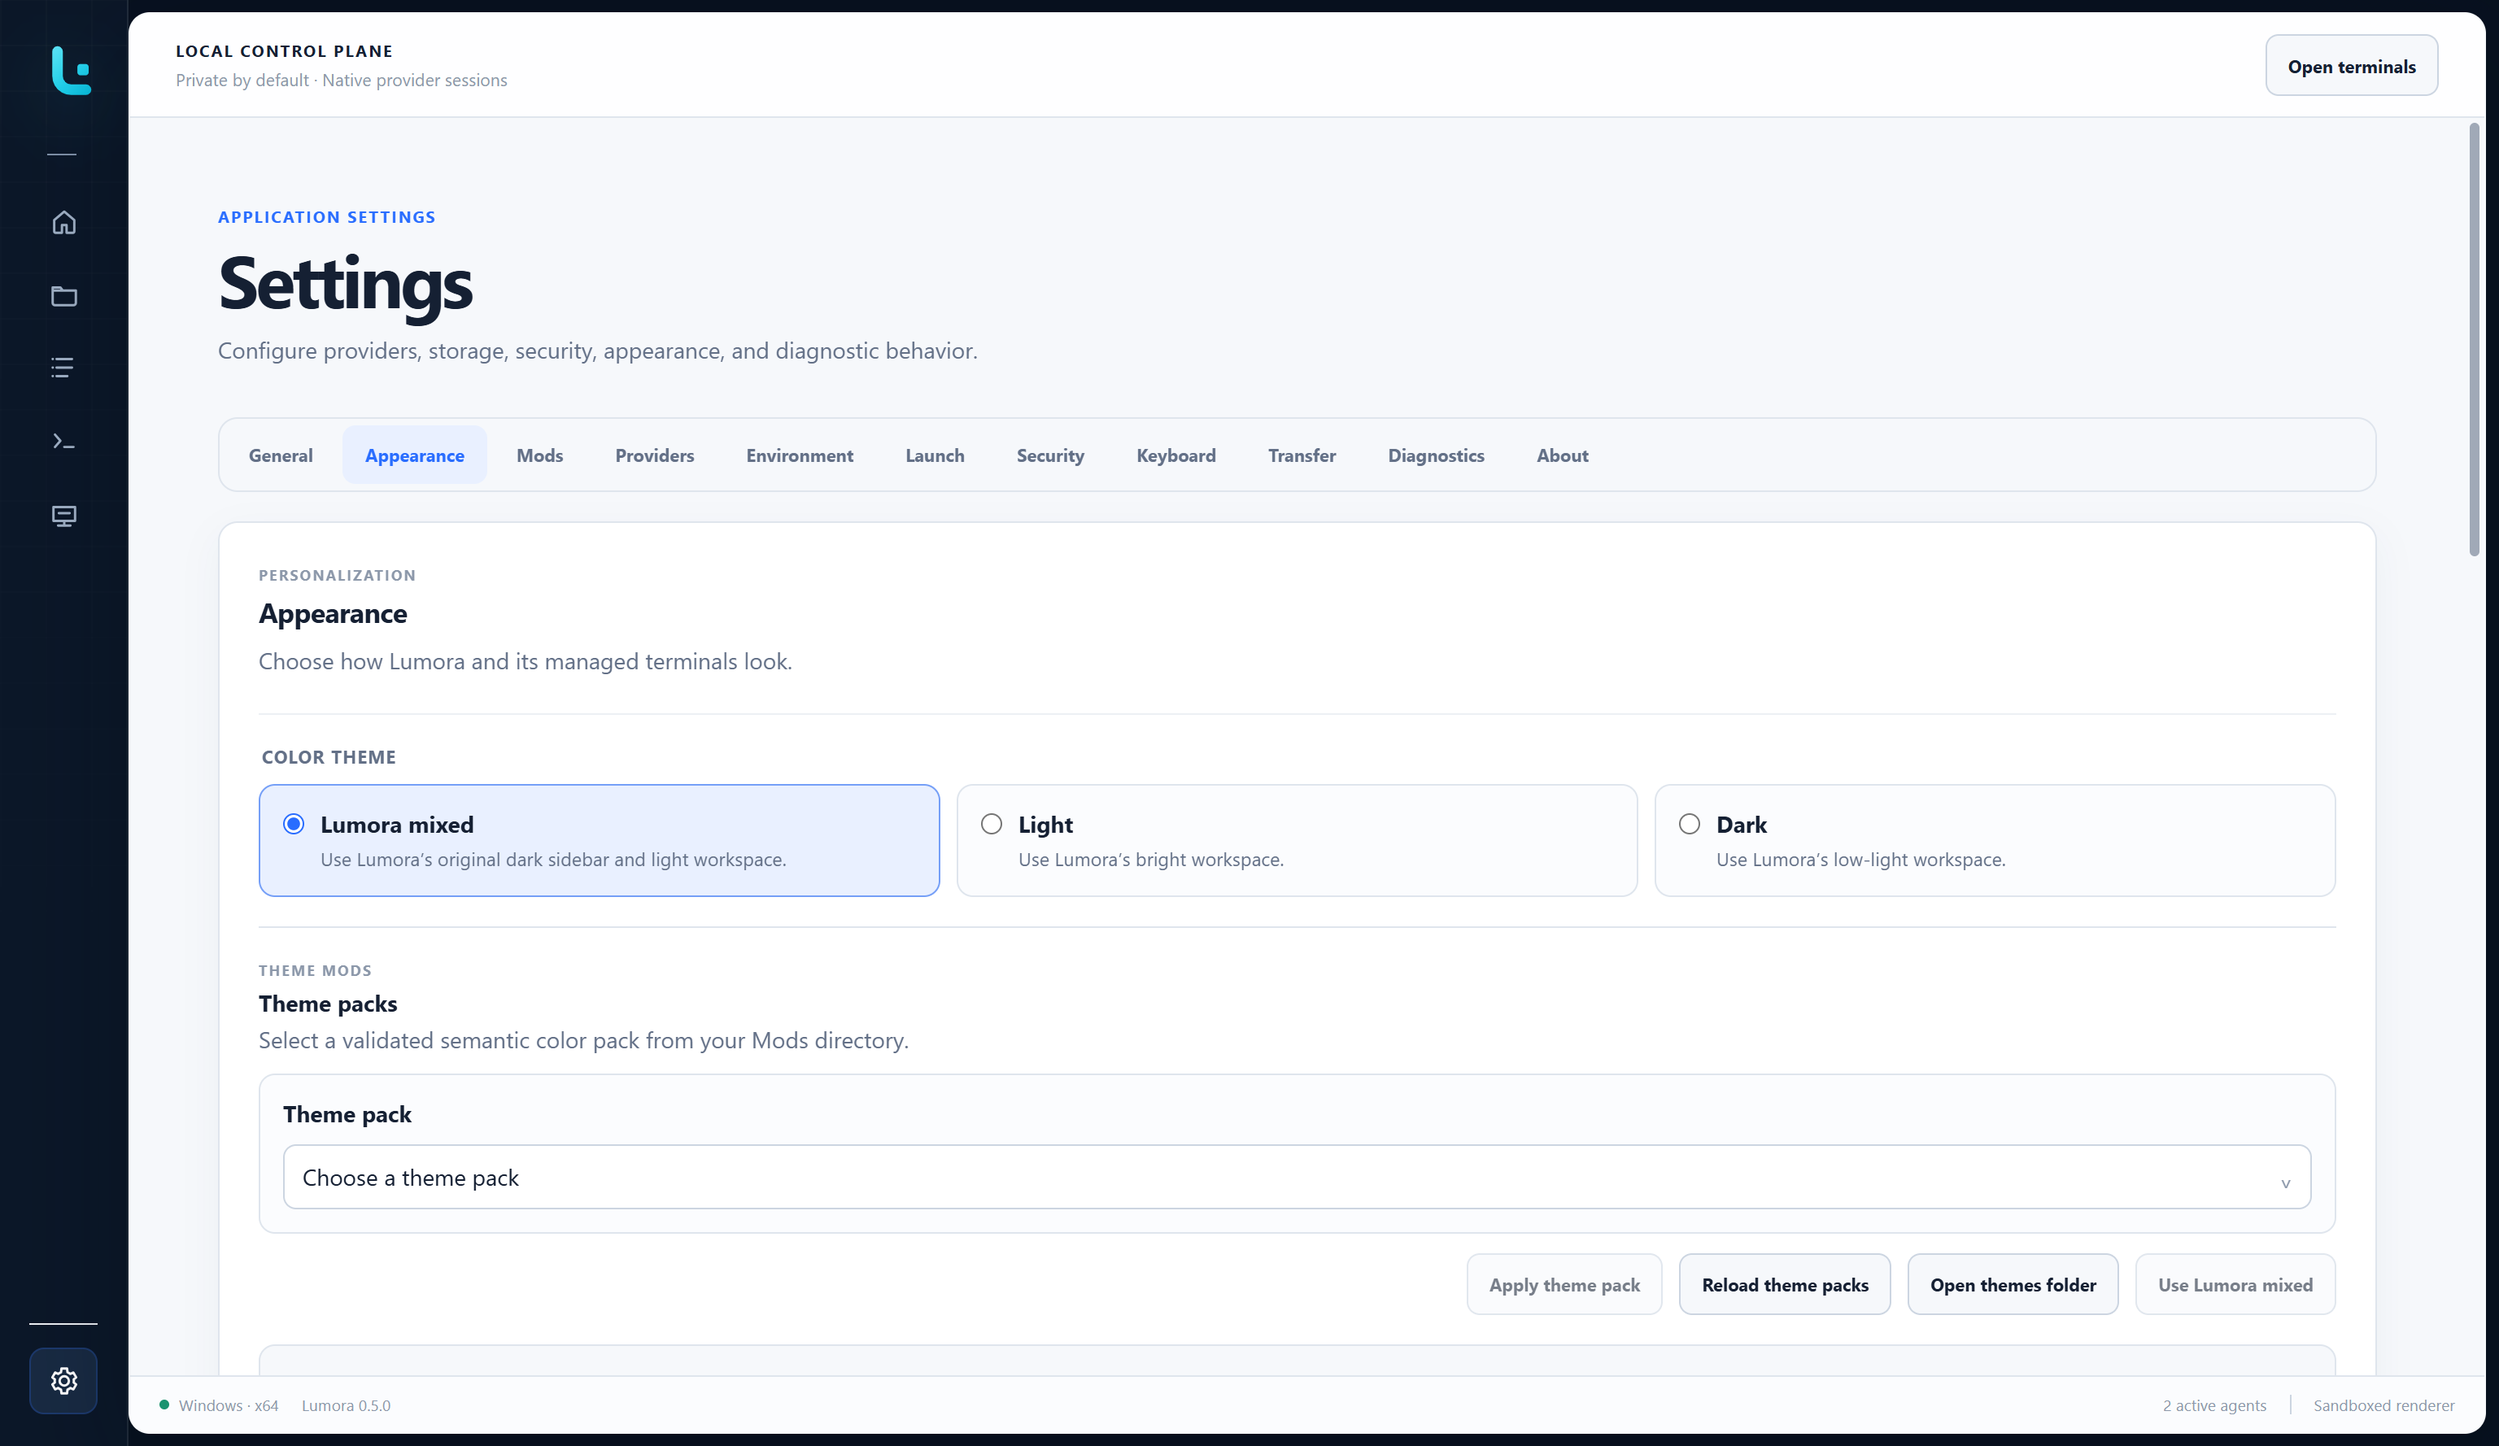
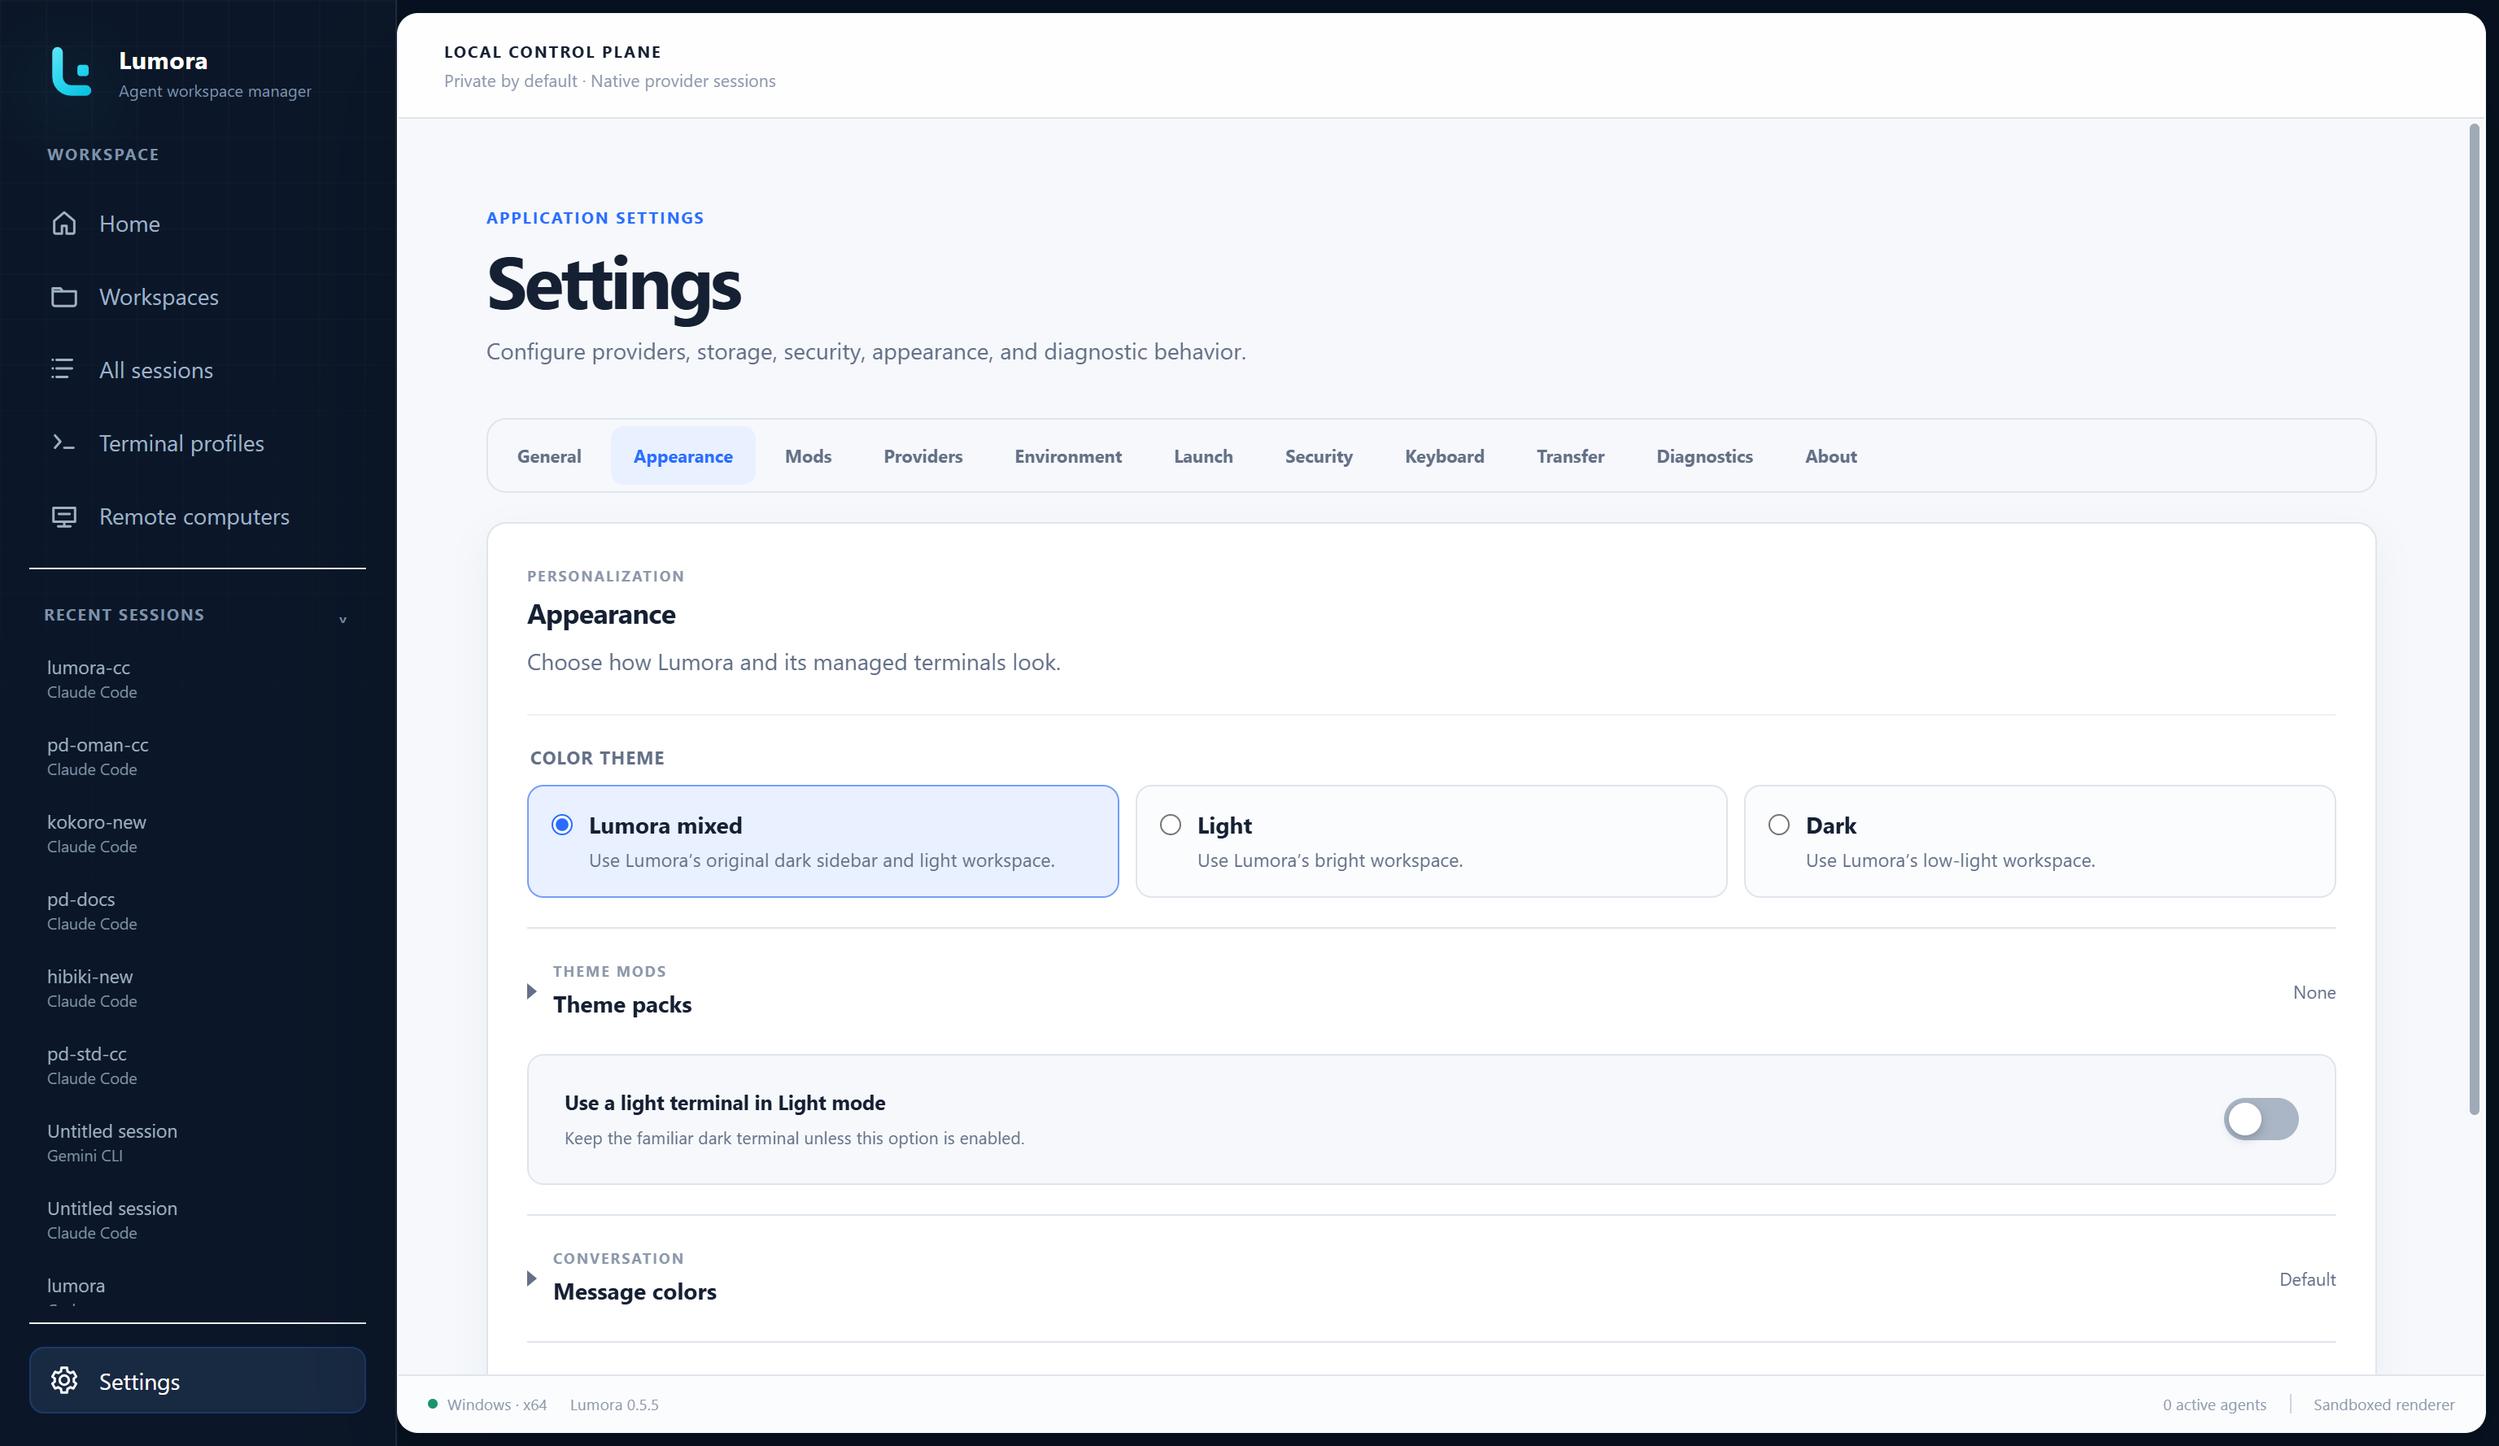
chore: release Lumora 0.5.5

diff --git a/CHANGELOG.md b/CHANGELOG.md
@@ -7,7 +7,28 @@ and Lumora uses [Semantic Versioning](https://semver.org/spec/v2.0.0.html).
 
 ## [Unreleased]
 
+## [0.5.5] - 2026-09-05
+
 ### Changed
+
+- Rebuild **Settings → Providers** around one card per provider. A card carries
+  the version, a switch to turn the provider on or off, an update button when
+  there is one, and a **Details** button. Details holds the detected command,
+  the installed path, the release state and the custom start command. The
+  separate list of enabled providers is gone, because the switch replaces it and
+  applies at once. Every provider Lumora supports keeps a card even when it is
+  turned off, so it can always be turned back on. The update button reads
+  **Update available**; the version it moves to is named in the confirmation.
+- Confirm a provider install or update in a dialog instead of inside the
+  provider card. The confirmation used to replace the action button with a
+  warning and two more buttons, pushing every provider below it down the page.
+- Collapse the sections of **Settings → Appearance**. Theme packs, message
+  colors, fonts and the workspace image each fold to their heading, showing
+  their current value beside it, and the choice is remembered. The color theme
+  stays visible, and an open section keeps its controls on the page so a live
+  preview still shows through.
+
+### Fixed
 
 - Make **Refresh** on **Settings → Providers** actually re-scan. It answered
   from a five-minute cache, so a provider that failed to be detected once
@@ -23,31 +44,12 @@ and Lumora uses [Semantic Versioning](https://semver.org/spec/v2.0.0.html).
 - Record what each provider scan found in the diagnostic journal, and log a
   scan that missed a provider as a warning. A scan that returned but detected
   nothing used to be recorded as a plain success.
-
-- Hold the column widths in **All sessions**. The table used to re-measure
-  itself against its contents, so every refresh and every **Load more** shifted
-  the columns under the pointer. The widths now come from the header alone:
-  they still follow the window, but no longer the rows. A value too long for
-  its column is cut with an ellipsis instead of wrapping, so row heights hold
-  as well.
-
-- Rebuild **Settings → Providers** around one card per provider. A card now
-  carries the version, a switch to turn the provider on or off, an update
-  button when there is one, and a **Details** button. Details holds the
-  installed path, the release state and the custom start command. The separate
-  list of enabled providers is gone, because the switch replaces it and applies
-  at once. Every provider Lumora supports keeps a card even when it is turned
-  off, so it can always be turned back on.
-
-- Collapse the sections of **Settings → Appearance**. Theme packs, message
-  colors, fonts and the workspace image each fold to their heading, showing
-  their current value beside it, and the choice is remembered. The color theme
-  stays visible, and an open section keeps its controls on the page so a live
-  preview still shows through.
-- Confirm a provider install or update in a dialog instead of inside the
-  provider card. The confirmation used to replace the action button with a
-  warning and two more buttons, pushing every provider below it down the page.
-
+- Hold the column widths in **All sessions**. The table re-measured itself
+  against its contents, so every refresh and every **Load more** shifted the
+  columns under the pointer. The widths now come from the header alone: they
+  still follow the window, but no longer the rows. A value too long for its
+  column is cut with an ellipsis instead of wrapping, so row heights hold as
+  well.
 
 ## [0.5.4] - 2026-09-04
 

diff --git a/docs/SETTINGS.md b/docs/SETTINGS.md
@@ -37,6 +37,12 @@ dark under a light application theme.
   <img src="screenshots/0.5/settings/settings_appearance.png" alt="Lumora Appearance settings with built-in themes and Theme Mod controls" width="1100">
 </p>
 
+Theme packs, message colors, fonts, and the workspace image each fold to their
+heading, showing their current value beside it, so the page stays short. Lumora
+remembers which sections were open. The color theme is always visible, and an
+open section keeps its controls on the page so a live preview still shows
+through.
+
 Appearance also supports:
 
 - independent installed interface and terminal fonts;
@@ -66,12 +72,25 @@ limits, and recovery.
 
 ## Providers
 
-Choose the providers Lumora scans and displays, inspect installed versions,
-check for updates, run confirmed allowlisted npm actions, open official setup
-guides, and save provider-specific start commands.
+Every provider Lumora supports has one card, whether or not it is installed.
+The card carries the detected version, a switch that decides whether Lumora
+scans and offers that provider, an update button when a newer release exists,
+and **Details**. A provider that is switched off keeps its card, so it can
+always be switched back on. At least one provider stays enabled.
+
+**Details** opens a dialog holding the rest: the detected command and installed
+path, whether the provider supports saved sessions, its release state, any
+diagnostic from the last scan, and the provider-specific start command.
+
+Installing or updating a provider asks for confirmation in a dialog naming the
+version it will move to, rather than expanding the card.
+
+**Refresh** re-probes every enabled provider rather than reusing the last
+result, so a provider that failed to be detected once can be re-checked without
+restarting Lumora.
 
 <p align="center">
-  <img src="screenshots/0.5/settings/settings_providers.png" alt="Lumora Providers settings with installation state, versions, and start commands" width="1100">
+  <img src="screenshots/0.5/settings/settings_providers.png" alt="Lumora Providers settings with one card per provider, versions, switches, and Details" width="1100">
 </p>
 
 The local Providers page also contains the Unified UI master switch and its

diff --git a/docs/TROUBLESHOOTING.md b/docs/TROUBLESHOOTING.md
@@ -74,10 +74,15 @@ environment check. Lumora does not install Node.js automatically.
 **Likely cause:** The executable is not on `PATH`, the command name differs from
 Lumora's default, or its version probe is incompatible.
 
-**Resolution:** Run the provider's version command in a normal terminal. Confirm
-that it succeeds, then restart Lumora and select **Refresh**. If the executable
-uses a nonstandard path or wrapper, configure the provider command under
-**Settings > Launch**.
+**Resolution:** Select **Refresh** on **Settings > Providers**, which re-probes
+every enabled provider rather than reusing the last result. If the provider is
+still missing, run its version command in a normal terminal and confirm that it
+succeeds. If the executable uses a nonstandard path or wrapper, configure the
+provider command under **Settings > Launch**.
+
+A scan that missed a provider is recorded in the diagnostic journal with the
+number of providers detected, missing, and failed to probe, so a detection that
+fails intermittently leaves a trace to look back at.
 
 ### An alias or wrapper command does not start
 

diff --git a/docs/USER_GUIDE.md b/docs/USER_GUIDE.md
@@ -12,8 +12,9 @@ For installation and system requirements, start with the
 ## First run
 
 1. Open **Settings > Environment** and confirm Node.js and npm are available.
-2. Open **Settings > Providers**, enable the agents you want Lumora to scan,
-   and review their detected versions.
+2. Open **Settings > Providers**, switch on the agents you want Lumora to scan,
+   and review their detected versions. **Details** on a card shows where the
+   provider was found and lets you set its start command.
 3. Install or authenticate each provider using its supported Lumora action or
    official instructions.
 4. Open **Workspaces**, add a project directory, then select **New session**.

diff --git a/docs/RELEASING.md b/docs/RELEASING.md
@@ -174,11 +174,11 @@ change before creating the tag. The tag-triggered workflow runs
 
 ## Create the draft prerelease
 
-Push a tag that exactly matches the package version. For version `0.5.4`:
+Push a tag that exactly matches the package version. For version `0.5.5`:
 
 ```powershell
-git tag v0.5.4
-git push origin v0.5.4
+git tag v0.5.5
+git push origin v0.5.5
 ```
 
 The **Lumora unsigned prerelease** workflow then:
